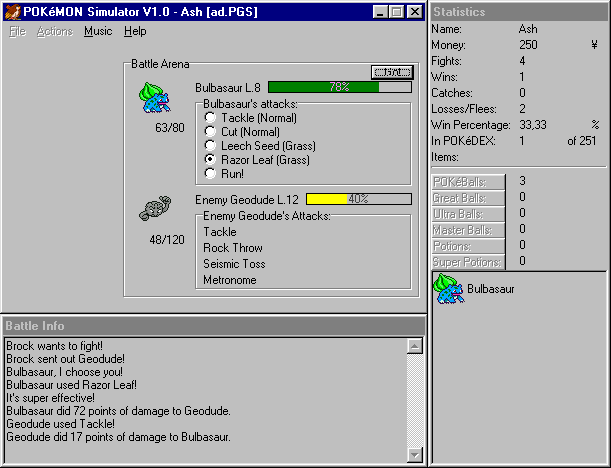
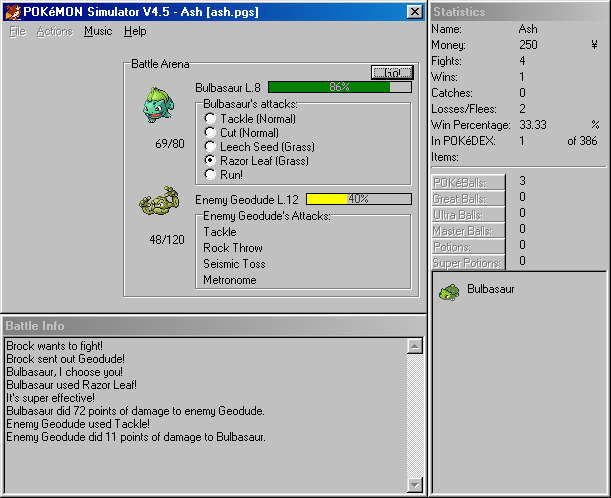
docs: retake the manual's pictures in the port

Changed region(s): [[0.0, 0.0, 0.9951, 1.0], [0.9329, 0.2393, 0.9951, 0.2991]]

diff --git a/assets/README.md b/assets/README.md
@@ -1,6 +1,6 @@
 # Assets
 
-Everything in this directory, except the Go files and the fonts and icons in `wine/` and `liberation/`, comes from the original **POKéMON Simulator V4.5** (Michael Madsen, BirdieSoft, 2004). The port embeds these files in its binaries, so it plays and looks exactly like the original.
+Everything in this directory, except the Go files, the fonts and icons in `wine/` and `liberation/`, and the manual's screenshots, comes from the original **POKéMON Simulator V4.5** (Michael Madsen, BirdieSoft, 2004). The port embeds these files in its binaries, so it plays and looks exactly like the original.
 
 ## Rights
 
@@ -21,7 +21,7 @@ This is a non-commercial project. If you hold rights to any of this material and
 | `sprites/pokeball.png` | The 15×15 POKéBALL shown under a wild POKéMON that is already in the POKéDEX | `Form4.Image1` | Shipped with the original. POKéBALL design: Nintendo / Creatures / GAME FREAK |
 | `sprites/icon.png` | Program icon, a Pidgeot, 32×32 | `MAINICON` | Shipped with the original. Pidgeot: Nintendo / Creatures / GAME FREAK |
 | `help/*.md` | The game's manual, one page per topic | `POKéGAME.HLP` | Michael Madsen |
-| `help/*.png` | The manual's screenshots and figures | `POKéGAME.HLP` | Michael Madsen. The screenshots show sprites owned by Nintendo / Creatures / GAME FREAK |
+| `help/*.png` | The manual's screenshots | Taken in the port, of the scenes that `POKéGAME.HLP`'s screenshots show | Michael Madsen's windows and texts. The sprites in them: Nintendo / Creatures / GAME FREAK |
 
 The form layouts in `internal/ui/classic/layout/` hold the original's window positions, sizes, captions, menus and event handler names. They are Michael Madsen's design.
 
